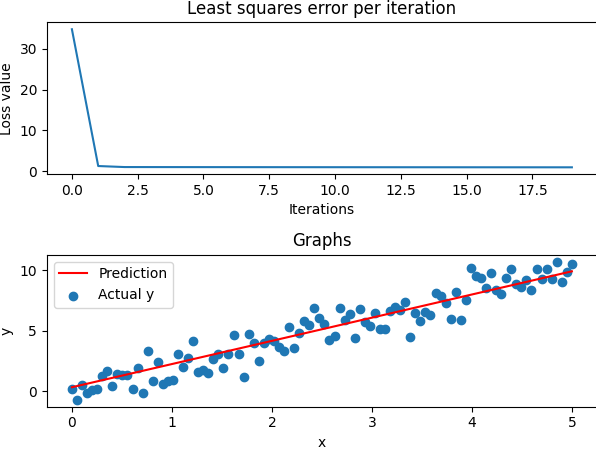
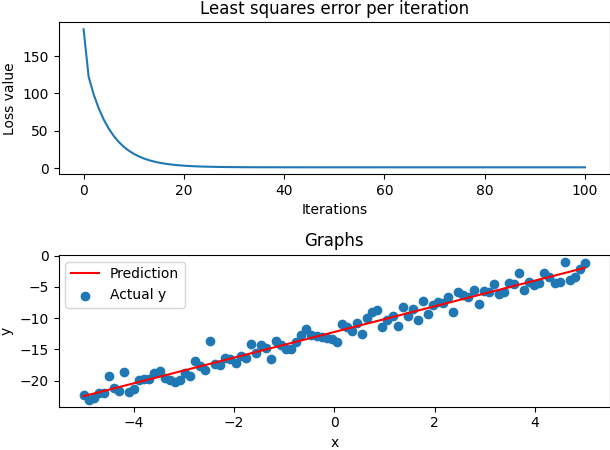
Removed the additional sgd_test, updates sgd_test figure and added a jacobian test for TMV_X

diff --git a/HW1/jacobian_test_resnet.py b/HW1/jacobian_test_resnet.py
@@ -8,6 +8,37 @@ from copy import deepcopy
 
 from activations import Tanh
 
+def jacobian_transpose_test_X():
+    d = np.random.rand(3, 1)
+    x = np.random.rand(3, 2)
+    normalized_d = d / np.linalg.norm(d)
+
+    eps_num = 20
+    eps_vals = np.geomspace(0.5, 0.5 ** eps_num, eps_num)
+    lin1 = ResLayer(3, 2, Tanh())
+    fx = lin1(x)
+    u = np.random.randn(3, 2)
+    gx = np.dot(fx.T, u)
+    no_grad, x_grad = [], []
+
+    for eps in eps_vals:
+        e_normalized_d = eps * normalized_d
+        x_perturbatzia = x + e_normalized_d
+        fx_d = np.dot(lin1(x_perturbatzia).T, u)
+        jackMV_x = lin1.jacTMV_x(x, u)
+        no_grad.append(np.abs(fx_d - gx).squeeze())
+        x_grad.append(np.abs(fx_d - gx - e_normalized_d.T @ jackMV_x).squeeze())
+    l = range(eps_num)
+    plt.plot(l, no_grad, label='First Order')
+    plt.plot(l, x_grad, label='Second Order')
+    plt.title('Jacobian transposed verification wrt X')
+    plt.xlabel('Iteration')
+    plt.ylabel('Error')
+    plt.yscale('log')
+    plt.legend()
+    plt.show()
+
+
 
 ''' jacobian test X'''
 def jacobian_test_X():
@@ -107,36 +138,37 @@ def jacobian_test_W1():
 # jacobian_test_W1()
 
 
-# def jacobian_test_W1():
-d = np.random.rand(3, 2)
-x = np.random.rand(3, 1) ## x must be 1 sample, since the gradient should only be for 1 sample (gx[:,0:1], gx_d[:,0:1]) 
-normalized_d = d / np.linalg.norm(d)
-eps_num = 20
-eps_vals = np.geomspace(0.5, 0.5 ** eps_num, eps_num)
-lin1 = ResLayer(3, 2, Tanh()) 
-fx = lin1(x)[:,0:1]
-no_grad, x_grad = [], []
-org_W = deepcopy(lin1.W2)
-for eps in eps_vals:
-    lin1.W2 = deepcopy(org_W)
-    e_normalized_d = eps * normalized_d
-    lin1.W2 += e_normalized_d
-    fx_d = lin1(x)[:,0:1]
-    lin1.W2 = deepcopy(org_W)
-    jacMV_W2 = lin1.jacMV_W2(x, e_normalized_d)
-    no_grad.append(np.linalg.norm(fx_d - fx))
-    x_grad.append(np.linalg.norm(fx_d - fx - jacMV_W2))
-l = range(eps_num)
-plt.plot(l, no_grad, label='First Order')
-plt.plot(l, x_grad, label='Second Order')
-plt.title('Jacobian transposed verification wrt Weights')
-plt.yscale('log')
-plt.xlabel('Iteration')
-plt.ylabel('Error')
-plt.legend()
-plt.show()
-#
+def jacobian_test_W2():
+    d = np.random.rand(3, 2)
+    x = np.random.rand(3, 1) ## x must be 1 sample, since the gradient should only be for 1 sample (gx[:,0:1], gx_d[:,0:1])
+    normalized_d = d / np.linalg.norm(d)
+    eps_num = 20
+    eps_vals = np.geomspace(0.5, 0.5 ** eps_num, eps_num)
+    lin1 = ResLayer(3, 2, Tanh())
+    fx = lin1(x)
+    no_grad, x_grad = [], []
+    org_W = deepcopy(lin1.W2)
+    for eps in eps_vals:
+        lin1.W2 = deepcopy(org_W)
+        e_normalized_d = eps * normalized_d
+        lin1.W2 += e_normalized_d
+        fx_d = lin1(x)
+        lin1.W2 = deepcopy(org_W)
+        jacMV_W2 = lin1.jacMV_W2(x, e_normalized_d)
+        no_grad.append(np.linalg.norm(fx_d - fx))
+        x_grad.append(np.linalg.norm(fx_d - fx - jacMV_W2))
+    l = range(eps_num)
+    plt.plot(l, no_grad, label='First Order')
+    plt.plot(l, x_grad, label='Second Order')
+    plt.title('Jacobian transposed verification wrt Weights')
+    plt.yscale('log')
+    plt.xlabel('Iteration')
+    plt.ylabel('Error')
+    plt.legend()
+    plt.show()
+    #
 
 
 
-
+if __name__ == '__main__':
+    jacobian_transpose_test_X()

diff --git a/HW1/tests/sgd_test.py b/HW1/tests/sgd_test.py
@@ -1,54 +1,46 @@
+#!/usr/bin/env python3
+
 from optimizer import SGD
 import matplotlib.pyplot as plt
 import numpy as np
 
-def sgd_test():
-    optimizer = SGD()
-    X = np.linspace(0,5, 100)
-    y = 2*X + np.random.randn(X.shape[0])
-    N_EPOCHS = 20
-    W0_new = 0
-    W1_new = 0
-    loss = np.array([])
 
-    for epoch in range(N_EPOCHS):
-        y_pred = np.array([])
-        error = np.array([])    # W0 error
-        error_x = np.array([])  # W1 error
+from utils import mse
 
-        W0 = W0_new
-        W1 = W1_new
+optimizer = SGD(lr=0.1)
+X = np.linspace(-5,5, 100)
+y = 2*X - 12 + np.random.randn(X.shape[0])
+y = y.reshape(-1,1)
 
-        for x_i in X:
-            y_pred = np.append(y_pred, W0 + W1 * x_i)
+W = np.zeros((2,1))
 
-        error = np.append(error, y_pred - y)
-        error_x = np.append(error_x, error * X)
-        loss_val = (error ** 2).mean()
-        loss = np.append(loss, loss_val)
+X = np.concatenate((X.reshape(-1,1) , np.ones((X.shape[0],1))), axis=1)
+loss = []
+for _ in range(100):
+    y_pred = X @ W
+    loss.append(mse(y,y_pred))
+    grad = X.T @ ((y_pred-y) * (1/X.shape[0]))
+    W = optimizer.step(grad, W)
 
-        W0_new = optimizer.step(sum(error), W0)
-        W1_new = optimizer.step(sum(error_x), W1)
-
-    print(f'W0 = {W0_new}')
-    print(f'W1 = {W1_new}')
-    print(f'Prediction: {y_pred}')
-    print(f'Error: {error}')
-    print(f'LSE: {loss}')
-    fig, axs = plt.subplots(2)
-    axs[0].plot(loss)
-    axs[0].set_title('Least squares error per iteration')
-    axs[0].set_xlabel('Iterations')
-    axs[0].set_ylabel('Loss value')
-    axs[1].plot(X, y_pred, color='r')
-    axs[1].scatter(X, y)
-    axs[1].legend(['Prediction', 'Actual y'])
-    axs[1].set_title('Graphs')
-    axs[1].set_xlabel('x')
-    axs[1].set_ylabel('y')
-    fig.tight_layout()
-    plt.savefig('../figures/sgd_test.png', transparent=True, bbox_inches='tight', pad_inches=0)
-    plt.show()
-
-if __name__ == '__main__':
-    sgd_test()
+y_pred = X @ W
+loss.append(mse(y,y_pred))
+    
+print(f'W0 = {W[0]}')
+print(f'W1 = {W[1]}')
+print(f'Prediction: {y_pred}')
+print(f'Error: {loss[-1]}')
+print(f'LSE: {loss}')
+fig, axs = plt.subplots(2)
+axs[0].plot(loss)
+axs[0].set_title('Least squares error per iteration')
+axs[0].set_xlabel('Iterations')
+axs[0].set_ylabel('Loss value')
+axs[1].plot(X[:,0], y_pred, color='r')
+axs[1].scatter(X[:,0], y)
+axs[1].legend(['Prediction', 'Actual y'])
+axs[1].set_title('Graphs')
+axs[1].set_xlabel('x')
+axs[1].set_ylabel('y')
+fig.tight_layout()
+plt.savefig('../figures/sgd_test.png', transparent=True, bbox_inches='tight', pad_inches=0)
+plt.show()

diff --git a/HW1/res_layer.py b/HW1/res_layer.py
@@ -24,6 +24,16 @@ class ResLayer():
         self.g_X = eye + W2_diag_W1
         return self.g_X
 
+    def jacTMV_x(self, X, v):
+        linear = self.linear_1(X)
+        act_deriv = self.activation.deriv(linear)
+        W2_diag = self.W2 * act_deriv
+        W2_diag_W1 = W2_diag @ self.W1
+        W2_diag_I = np.eye(W2_diag_W1.shape[0]) + W2_diag_W1
+        result = W2_diag_I.T @ v
+        return result
+
+
 
     def jac_b(self, x):
         linear = self.linear_1(x)
